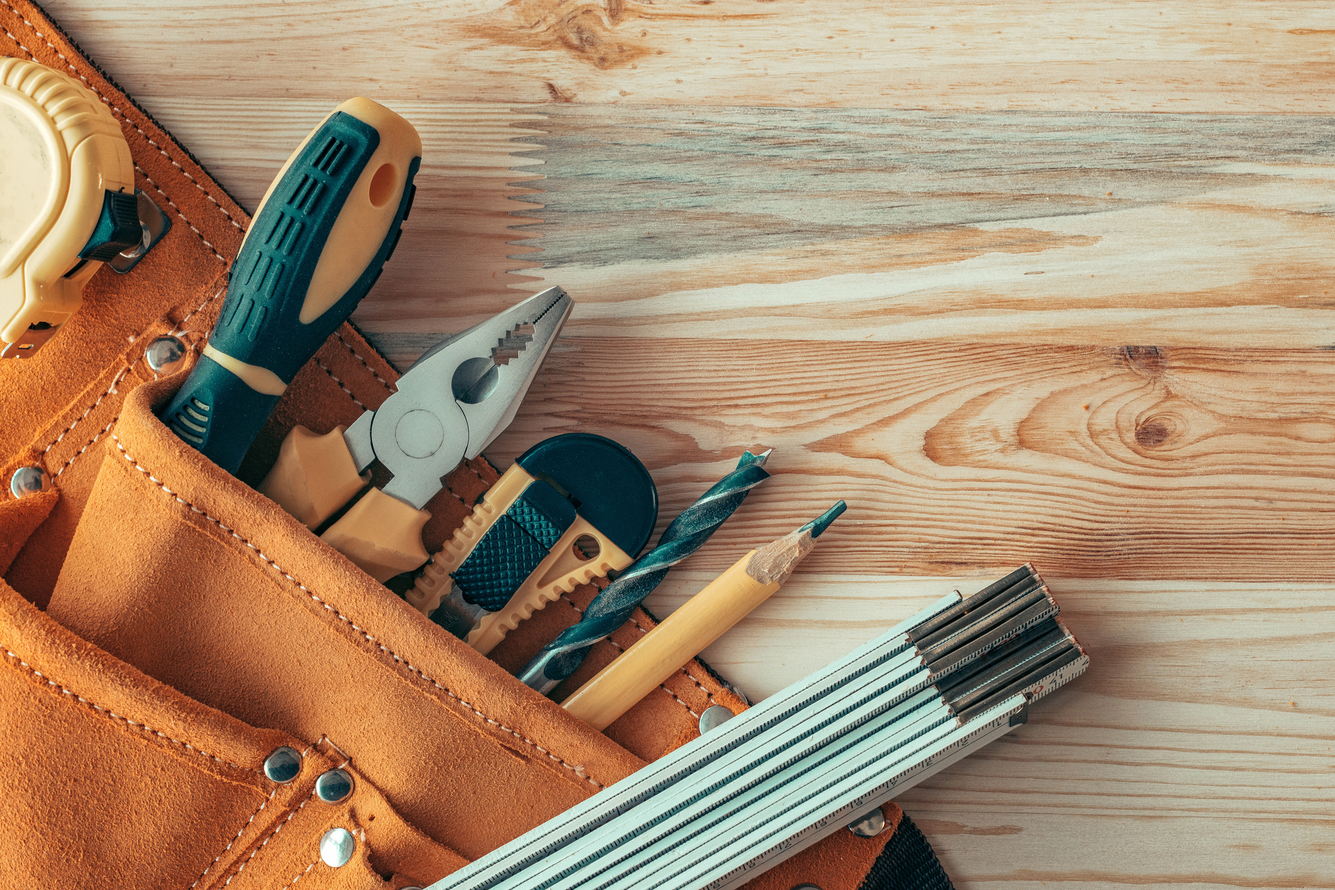
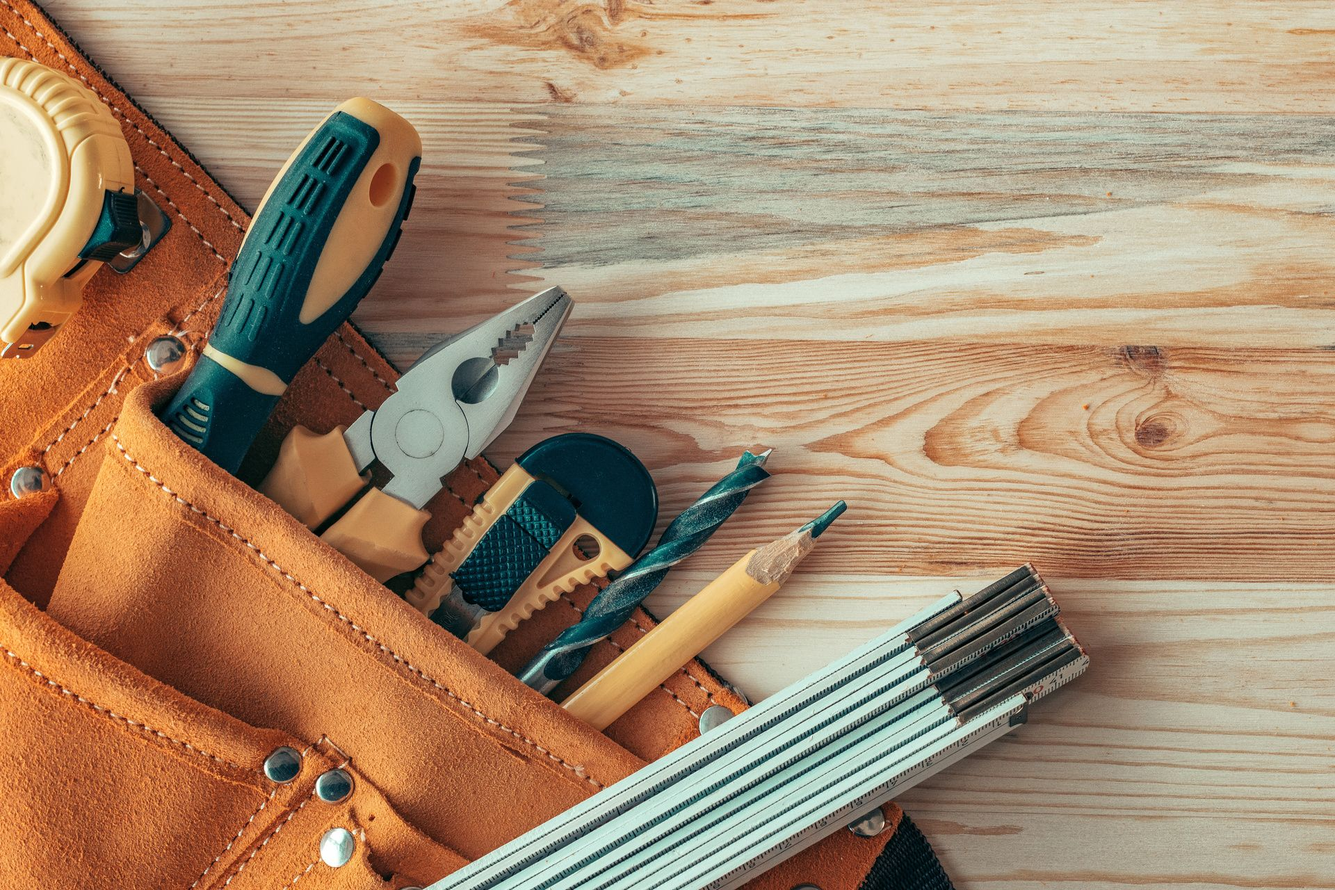
замена ещё части изображений на более оптимальные по весу

diff --git a/src/pages/main/components/worksExamples/works-examples.jsx b/src/pages/main/components/worksExamples/works-examples.jsx
@@ -1,8 +1,8 @@
 import React, { useState } from "react";
-import example1Before from "../../../../image/examples/example1Before.jpg";
-import example1After from "../../../../image/examples/example1After.jpg";
-import example2Before from "../../../../image/examples/example2Before.jpg";
-import example2After from "../../../../image/examples/example2After.jpg";
+import example1Before from "../../../../image/examples/example1Before.webp";
+import example1After from "../../../../image/examples/example1After.webp";
+import example2Before from "../../../../image/examples/example2Before.webp";
+import example2After from "../../../../image/examples/example2After.webp";
 import styles from "./works-examples.module.css";
 export const WorksExamples = () => {
     const [isModalOpen, setModalOpen] = useState(false);

diff --git a/src/index.css b/src/index.css
@@ -3,7 +3,7 @@ body {
   font-family: jura,sans-serif;
   -webkit-font-smoothing: antialiased;
   -moz-osx-font-smoothing: grayscale;
-  background: url('./image/mainPicture3.webp') no-repeat  center ;
+  background: url('./image/mainPicture3.png') no-repeat  center ;
   background-size: cover;
 }
 
@@ -47,7 +47,7 @@ article, aside, details, figcaption, figure, footer, header, hgroup, main, nav, 
 
 @media screen and (max-width: 1024px) {
   body {
-    background: url('./image/mainPicture3.webp') no-repeat  center  fixed;
+    background: url('./image/mainPicture3.png') no-repeat  center  fixed;
   }
   
 }
